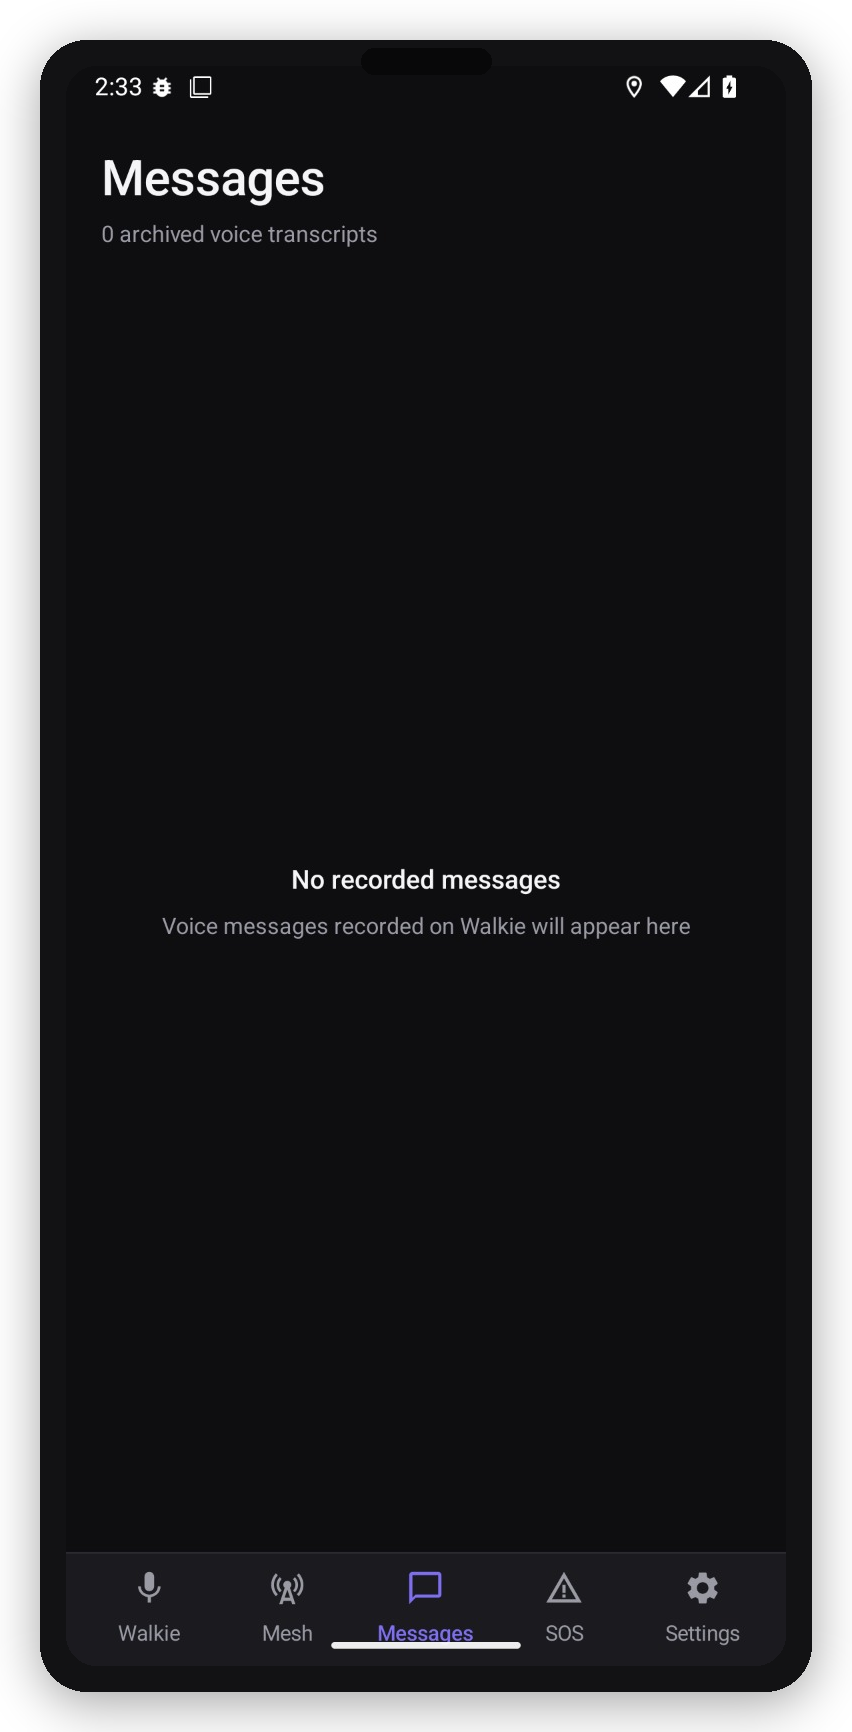
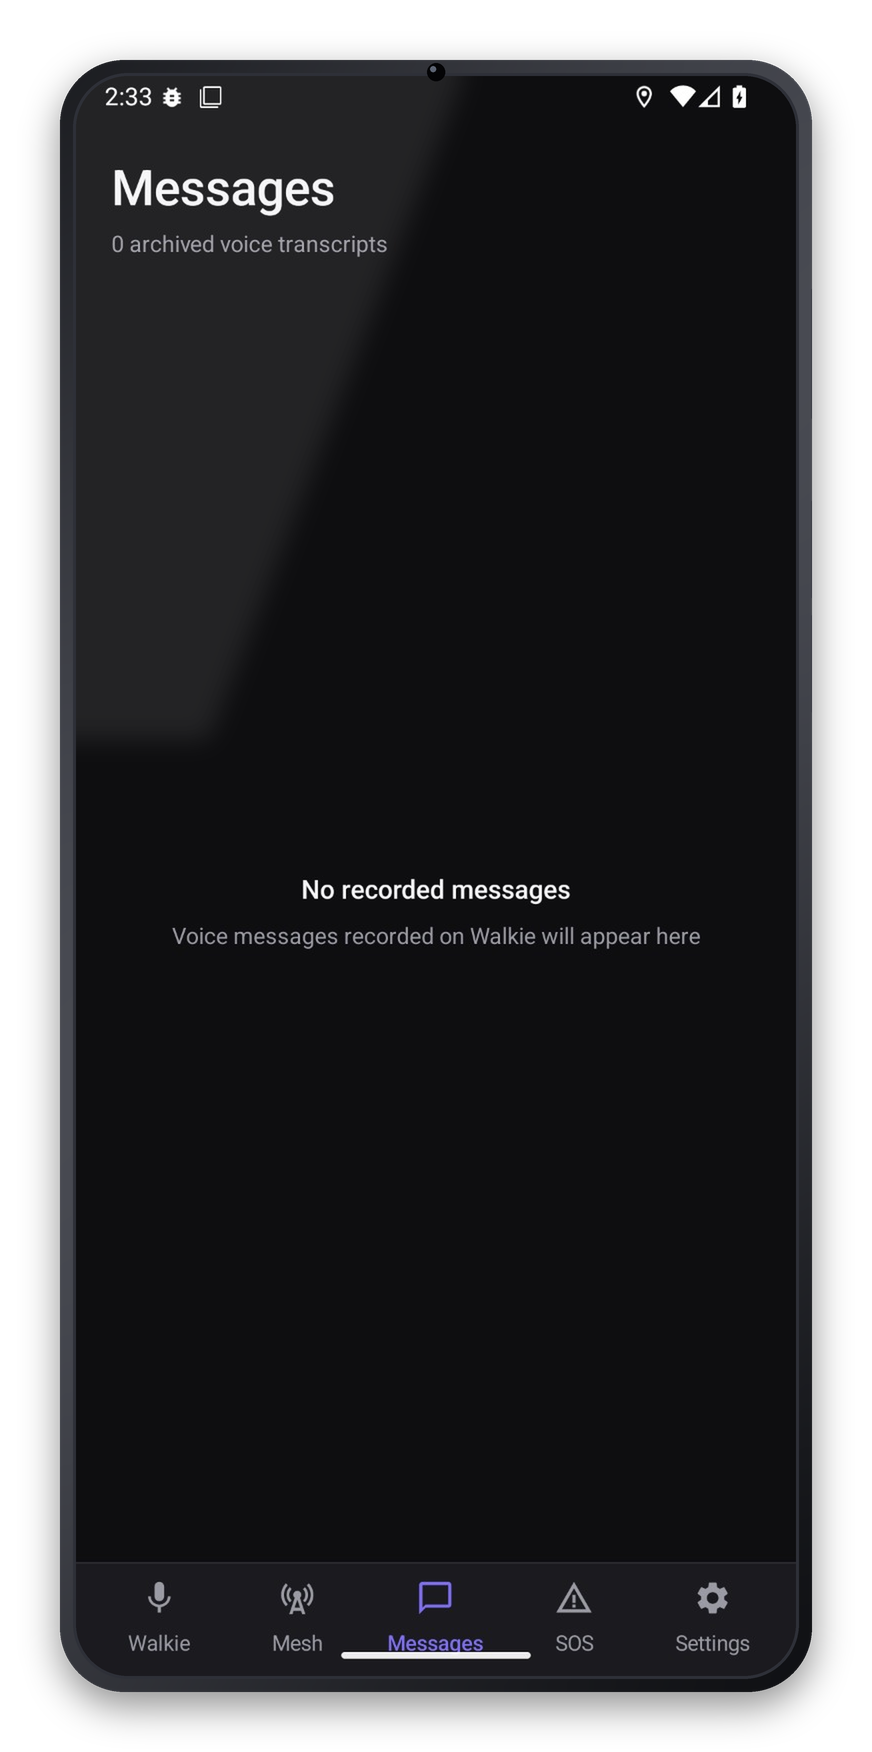
Rebuild screenshot mockup frame: metallic gradient, glass highlight, punch-hole cam
Original artwork instead of a downloaded device render -- the free 'device
frame' asset sets found (real iPhone/Pixel product photography) ship with
no license, too risky to bake into a public repo.

diff --git a/tools/screenshot_mockup/compose_mockup.py b/tools/screenshot_mockup/compose_mockup.py
@@ -1,8 +1,11 @@
-"""Wraps raw phone screenshots in a simple flat phone-bezel frame for the README.
+"""Wraps raw phone screenshots in a premium phone-bezel frame for the README.
 
 GitHub's markdown renderer strips CSS, so a "phone mockup" has to be a flattened
-image with the bezel already baked in rather than drawn with HTML/CSS. This script
-does that compositing locally with Pillow -- no external mockup web service.
+image with the bezel already baked in rather than drawn with HTML/CSS. This is
+100% original vector-style artwork drawn with Pillow -- deliberately not a
+downloaded photorealistic device render, since none of the free ones we found
+(e.g. community "device frame" datasets scraping real iPhone/Pixel product
+photography) ship with a clear license to redistribute in another public repo.
 
 Usage:
     python compose_mockup.py
@@ -12,21 +15,29 @@ same filename to docs/screenshots/ (which is what README.md actually embeds).
 """
 
 from pathlib import Path
+
+import numpy as np
 from PIL import Image, ImageDraw, ImageFilter
 
 ROOT = Path(__file__).resolve().parents[2]
 RAW_DIR = ROOT / "docs" / "screenshots" / "raw"
 OUT_DIR = ROOT / "docs" / "screenshots"
 
-BEZEL = 26          # bezel thickness around the screenshot
-CORNER_RADIUS = 46  # outer frame corner radius
-SCREEN_RADIUS = 30  # inner screenshot corner radius
-NOTCH_W, NOTCH_H = 130, 26
-SHADOW_BLUR = 24
-SHADOW_MARGIN = 40
-BEZEL_COLOR = (18, 18, 20, 255)
-NOTCH_COLOR = (8, 8, 9, 255)
-SHADOW_COLOR = (0, 0, 0, 90)
+BEZEL = 16                 # metallic edge thickness around the screen
+CORNER_RADIUS = 64         # outer frame corner radius (modern-phone-ish)
+SCREEN_RADIUS = 52         # inner screenshot corner radius
+CAMERA_RADIUS = 9          # punch-hole selfie camera
+SHADOW_BLUR = 36
+SHADOW_MARGIN = 60
+SUPERSAMPLE = 3            # render big, downsample for anti-aliased edges
+
+BEZEL_LIGHT = (72, 74, 82, 255)
+BEZEL_DARK = (14, 15, 18, 255)
+SCREEN_RING = (46, 48, 56, 255)      # thin inner ring between bezel and screen
+CAMERA_COLOR = (4, 4, 6, 255)
+CAMERA_GLINT = (60, 70, 90, 200)
+BUTTON_COLOR = (54, 56, 64, 255)
+SHADOW_COLOR = (0, 0, 0, 110)
 
 
 def rounded_mask(size: tuple[int, int], radius: int) -> Image.Image:
@@ -36,60 +47,126 @@ def rounded_mask(size: tuple[int, int], radius: int) -> Image.Image:
     return mask
 
 
+def metallic_gradient(size: tuple[int, int]) -> Image.Image:
+    """Diagonal light-to-dark sweep so the edge reads as brushed metal, not flat paint."""
+    w, h = size
+    yy, xx = np.mgrid[0:h, 0:w]
+    t = (xx + yy) / float(w + h)
+    v = 0.5 + 0.5 * np.sin(t * np.pi * 1.6 - 0.6)
+    arr = np.clip(v * 255, 0, 255).astype(np.uint8)
+    grad = Image.fromarray(arr, mode="L")
+    return grad.filter(ImageFilter.GaussianBlur(w * 0.03))
+
+
 def compose_one(src_path: Path, dst_path: Path) -> None:
     shot = Image.open(src_path).convert("RGBA")
     w, h = shot.size
+    S = SUPERSAMPLE
 
-    frame_w, frame_h = w + BEZEL * 2, h + BEZEL * 2
-    canvas_w = frame_w + SHADOW_MARGIN * 2
-    canvas_h = frame_h + SHADOW_MARGIN * 2
+    bezel = BEZEL * S
+    corner_r = CORNER_RADIUS * S
+    screen_r = SCREEN_RADIUS * S
+    ring = max(1, 3 * S)
 
+    frame_w, frame_h = (w + bezel * 2) * 1, (h + bezel * 2) * 1
+    shot_big = shot.resize((w * S, h * S), Image.LANCZOS)
+    fw, fh = w * S + bezel * 2, h * S + bezel * 2
+
+    canvas_w = fw + SHADOW_MARGIN * S * 2
+    canvas_h = fh + SHADOW_MARGIN * S * 2
     canvas = Image.new("RGBA", (canvas_w, canvas_h), (0, 0, 0, 0))
 
-    # Soft drop shadow behind the frame.
+    # --- Soft drop shadow ---
     shadow = Image.new("RGBA", (canvas_w, canvas_h), (0, 0, 0, 0))
-    shadow_draw = ImageDraw.Draw(shadow)
-    shadow_draw.rounded_rectangle(
+    ImageDraw.Draw(shadow).rounded_rectangle(
         [
-            (SHADOW_MARGIN, SHADOW_MARGIN + 10),
-            (SHADOW_MARGIN + frame_w, SHADOW_MARGIN + frame_h + 10),
+            (SHADOW_MARGIN * S, SHADOW_MARGIN * S + 14 * S),
+            (SHADOW_MARGIN * S + fw, SHADOW_MARGIN * S + fh + 14 * S),
         ],
-        radius=CORNER_RADIUS,
+        radius=corner_r,
         fill=SHADOW_COLOR,
     )
-    shadow = shadow.filter(ImageFilter.GaussianBlur(SHADOW_BLUR))
+    shadow = shadow.filter(ImageFilter.GaussianBlur(SHADOW_BLUR * S / 2))
     canvas = Image.alpha_composite(canvas, shadow)
 
-    # Bezel.
-    frame = Image.new("RGBA", (frame_w, frame_h), (0, 0, 0, 0))
-    frame_draw = ImageDraw.Draw(frame)
-    frame_draw.rounded_rectangle(
-        [(0, 0), (frame_w - 1, frame_h - 1)], radius=CORNER_RADIUS, fill=BEZEL_COLOR
+    # --- Metallic bezel body (gradient, not flat) ---
+    frame = Image.new("RGBA", (fw, fh), (0, 0, 0, 0))
+    frame_mask = rounded_mask((fw, fh), corner_r)
+    grad = metallic_gradient((fw, fh))
+    dark_layer = Image.new("RGBA", (fw, fh), BEZEL_DARK)
+    light_layer = Image.new("RGBA", (fw, fh), BEZEL_LIGHT)
+    metal = Image.composite(light_layer, dark_layer, grad)
+    frame.paste(metal, (0, 0), frame_mask)
+
+    # Thin inner ring (subtle contrast line separating bezel from glass).
+    ring_rect_mask = Image.new("L", (fw, fh), 0)
+    ring_draw = ImageDraw.Draw(ring_rect_mask)
+    ring_draw.rounded_rectangle(
+        [(bezel - ring, bezel - ring), (fw - bezel + ring - 1, fh - bezel + ring - 1)],
+        radius=screen_r + ring,
+        fill=255,
+    )
+    ring_draw.rounded_rectangle(
+        [(bezel, bezel), (fw - bezel - 1, fh - bezel - 1)], radius=screen_r, fill=0
+    )
+    ring_layer = Image.new("RGBA", (fw, fh), SCREEN_RING)
+    frame.paste(ring_layer, (0, 0), ring_rect_mask)
+
+    # --- Screenshot inset with rounded corners ---
+    shot_masked = Image.new("RGBA", (w * S, h * S), (0, 0, 0, 0))
+    shot_masked.paste(shot_big, (0, 0), rounded_mask((w * S, h * S), screen_r))
+    frame.paste(shot_masked, (bezel, bezel), shot_masked)
+
+    # --- Subtle glass highlight streak across the top third of the screen ---
+    highlight = Image.new("RGBA", (w * S, h * S), (0, 0, 0, 0))
+    hl_draw = ImageDraw.Draw(highlight)
+    band_w = int(w * S * 0.55)
+    hl_draw.polygon(
+        [
+            (0, 0),
+            (band_w, 0),
+            (int(band_w * 0.35), int(h * S * 0.42)),
+            (0, int(h * S * 0.42)),
+        ],
+        fill=(255, 255, 255, 22),
+    )
+    highlight = highlight.filter(ImageFilter.GaussianBlur(w * S * 0.02))
+    highlight_masked = Image.new("RGBA", (w * S, h * S), (0, 0, 0, 0))
+    highlight_masked.paste(highlight, (0, 0), rounded_mask((w * S, h * S), screen_r))
+    frame.alpha_composite(highlight_masked, (bezel, bezel))
+
+    # --- Punch-hole selfie camera ---
+    cam_cx, cam_r = fw // 2, CAMERA_RADIUS * S
+    cam_cy = bezel // 2 + 4 * S
+    cam_draw = ImageDraw.Draw(frame)
+    cam_draw.ellipse(
+        [(cam_cx - cam_r, cam_cy - cam_r), (cam_cx + cam_r, cam_cy + cam_r)], fill=CAMERA_COLOR
+    )
+    glint_r = max(1, cam_r // 3)
+    cam_draw.ellipse(
+        [
+            (cam_cx - glint_r - cam_r * 0.3, cam_cy - glint_r - cam_r * 0.3),
+            (cam_cx + glint_r - cam_r * 0.3, cam_cy + glint_r - cam_r * 0.3),
+        ],
+        fill=CAMERA_GLINT,
     )
 
-    # Inset the screenshot with its own rounded mask.
-    shot_masked = Image.new("RGBA", (w, h), (0, 0, 0, 0))
-    shot_masked.paste(shot, (0, 0), rounded_mask((w, h), SCREEN_RADIUS))
-    frame.paste(shot_masked, (BEZEL, BEZEL), shot_masked)
+    # --- Side buttons (power + volume rocker), right edge ---
+    btn_w = max(2, int(2.5 * S))
+    def side_button(y0_frac: float, y1_frac: float) -> None:
+        cam_draw.rounded_rectangle(
+            [(fw - btn_w // 2, int(fh * y0_frac)), (fw + btn_w, int(fh * y1_frac))],
+            radius=btn_w,
+            fill=BUTTON_COLOR,
+        )
+    side_button(0.14, 0.22)   # power
+    side_button(0.27, 0.33)   # volume up
+    side_button(0.34, 0.40)   # volume down
 
-    # Camera notch.
-    notch_x0 = (frame_w - NOTCH_W) // 2
-    frame_draw.rounded_rectangle(
-        [(notch_x0, 8), (notch_x0 + NOTCH_W, 8 + NOTCH_H)],
-        radius=NOTCH_H // 2,
-        fill=NOTCH_COLOR,
-    )
-
-    # Side power button nub.
-    frame_draw.rounded_rectangle(
-        [(frame_w - 4, frame_h * 0.18), (frame_w + 4, frame_h * 0.28)],
-        radius=4,
-        fill=BEZEL_COLOR,
-    )
-
-    canvas.alpha_composite(frame, (SHADOW_MARGIN, SHADOW_MARGIN))
+    canvas.alpha_composite(frame, (SHADOW_MARGIN * S, SHADOW_MARGIN * S))
+    canvas = canvas.resize((canvas_w // S, canvas_h // S), Image.LANCZOS)
     canvas.save(dst_path)
-    print(f"wrote {dst_path.relative_to(ROOT)} ({canvas_w}x{canvas_h})")
+    print(f"wrote {dst_path.relative_to(ROOT)} ({canvas.size[0]}x{canvas.size[1]})")
 
 
 def main() -> None:
